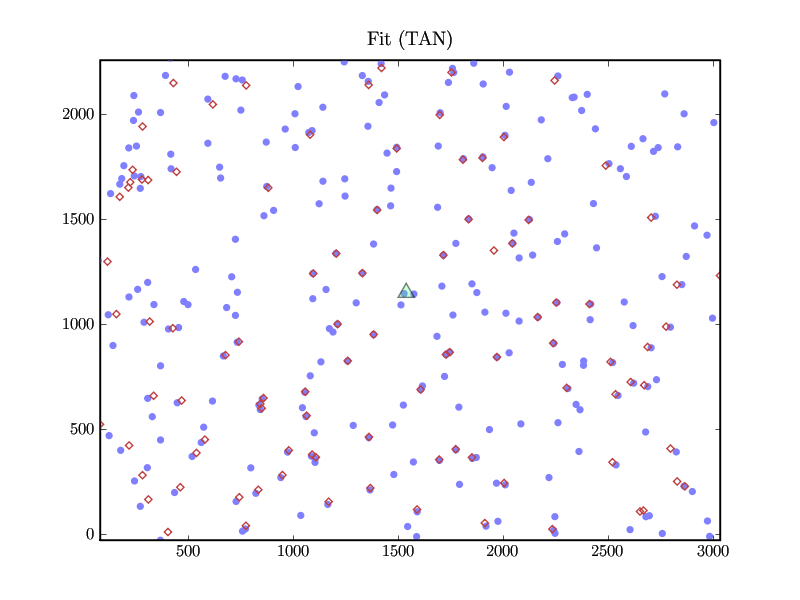
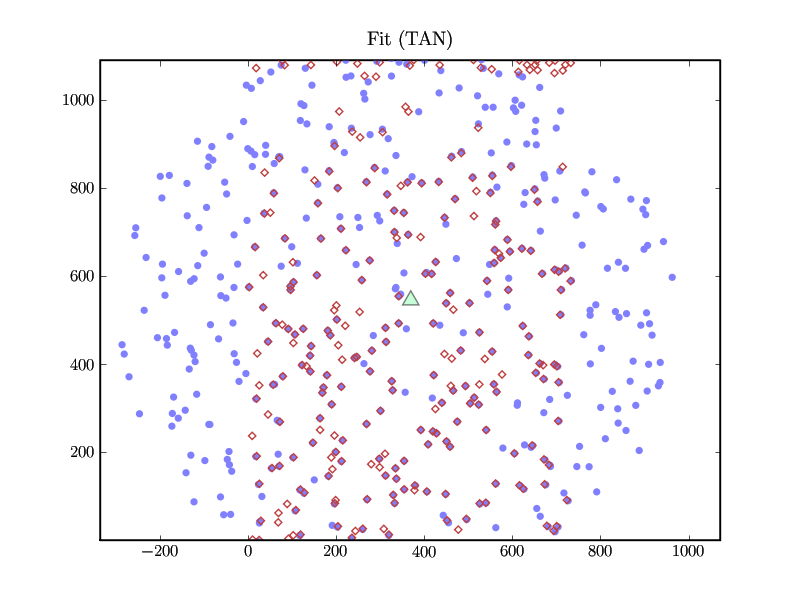
[Jon] pytweak

diff --git a/src/pytweak/tweak_lib.py b/src/pytweak/tweak_lib.py
@@ -13,6 +13,18 @@ def loadData(imageXYFilename, catalogRDFilename, inputWCSFilename, warpDegree):
 	
 	WCS = sip.Sip(inputWCSFilename)
 	
+	if any(array(WCS.a)!=0) | any(array(WCS.b)!=0) | any(array(WCS.ap)!=0) | any(array(WCS.bp)!=0) | (WCS.a_order!=0) | (WCS.b_order!=0) | (WCS.ap_order!=0) | (WCS.bp_order!=0):
+		print 'warning: WCS already has SIP components, ignoring them.'
+		for i in range(0,100):
+			WCS.a[i] = 0.
+			WCS.b[i] = 0.
+			WCS.ap[i] = 0.
+			WCS.bp[i] = 0.
+		WCS.a_order=0
+		WCS.b_order=0
+		WCS.ap_order=0
+		WCS.bp_order=0
+	
 	WCS.warpDegree = warpDegree;
 	
 	(catalogData['X'], catalogData['Y']) = WCS_rd2xy(WCS, catalogData['RA'], catalogData['DEC'])
@@ -370,7 +382,6 @@ def pushPoly2WCS(WCS):
 
 
 def writeOutput(WCS, inputWCSFilename, outputWCSFilename, catalogXYFilename, catalogRDFilename, imageXYFilename, imageRDFilename, renderOutput):
-	
 	if outputWCSFilename != ():
 		print '\nwriting new WCS to disk'
 		try:
@@ -390,15 +401,18 @@ def writeOutput(WCS, inputWCSFilename, outputWCSFilename, catalogXYFilename, cat
 			WCSFITS_new[0].header.add_history(history)
 
 		for comment in WCSFITS_old[0].header.get_comment():
-			if comment[0:5] == 'Tweak':
-				WCSFITS_new[0].header.add_comment('Tweak: yes')
-				WCSFITS_new[0].header.add_comment('Tweak AB order: ' + str(WCS.a_order))
-				WCSFITS_new[0].header.add_comment('Tweak ABP order: ' + str(WCS.ap_order))
-			else:
+			if comment[0:5] != 'Tweak':
 				WCSFITS_new[0].header.add_comment(comment)
+		
+		WCSFITS_new[0].header.add_comment('Tweak: yes')
+		WCSFITS_new[0].header.add_comment('Tweak AB order: ' + str(WCS.a_order))
+		WCSFITS_new[0].header.add_comment('Tweak ABP order: ' + str(WCS.ap_order))
+		
+		if WCSFITS_old[0].header.get('AN_JOBID') != None:
+			WCSFITS_new[0].header.add_comment('AN_JOBID: ' + WCSFITS_old[0].header.get('AN_JOBID'))
+		if WCSFITS_old[0].header.get('DATE') != None:
+			WCSFITS_new[0].header.add_comment('DATE: ' + WCSFITS_old[0].header.get('DATE'))
 
-		WCSFITS_new[0].header.add_comment('AN_JOBID: ' + WCSFITS_old[0].header.get('AN_JOBID'))
-		WCSFITS_new[0].header.add_comment('DATE: ' + WCSFITS_old[0].header.get('DATE'))
 		WCSFITS_new[0].update_header()
 	
 		try:

diff --git a/src/pytweak/tweak.py b/src/pytweak/tweak.py
@@ -12,6 +12,10 @@ def tweak(inputWCSFilename, catalogRDFilename, imageXYFilename,
 		  renderOutput=DEFAULT_RENDER_OUTPUT, goal_CRPix_X=(),
 		  goal_CRPix_Y=()):
 	
+	if warpDegree < 1:
+		print 'warning: order set to less than 1, resetting order to 1'
+		warpDegree = 1
+	
 	(imageData, catalogData, WCS) = loadData(imageXYFilename, catalogRDFilename, inputWCSFilename, warpDegree)
 	
 	if renderOutput:
@@ -72,7 +76,7 @@ if __name__ == '__main__':
 	goal_CRPix_Y = ()
 
 	# Debug stuff
-	folder = 'data/tweaktest1/'
+	folder = 'data/tweaktest4/'
 	catalogRDFilename = folder + 'index.rd.fits'
 	imageXYFilename = folder + 'field.xy.fits'
 	inputWCSFilename = folder + 'wcs.fits'
@@ -117,11 +121,11 @@ if __name__ == '__main__':
 		raise SystemExit
 
 	if warpDegree == ():
-		print 'warp degree not specified, using default of', DEFAULT_WARP_DEGREE
+		print 'warning: warp degree not specified, using default of', DEFAULT_WARP_DEGREE
 		warpDegree = DEFAULT_WARP_DEGREE
 	
 	if (goal_CRPix_X == ()) & (goal_CRPix_Y == ()):
-		print 'no crpix values specified, defaulting to image center'
+		print 'warning: no crpix values specified, defaulting to image center'
 	elif not((goal_CRPix_X != ()) & (goal_CRPix_Y != ())):
 		print 'warning: only one crpix value specified. Unspecified value defaulting to image center'
 		
